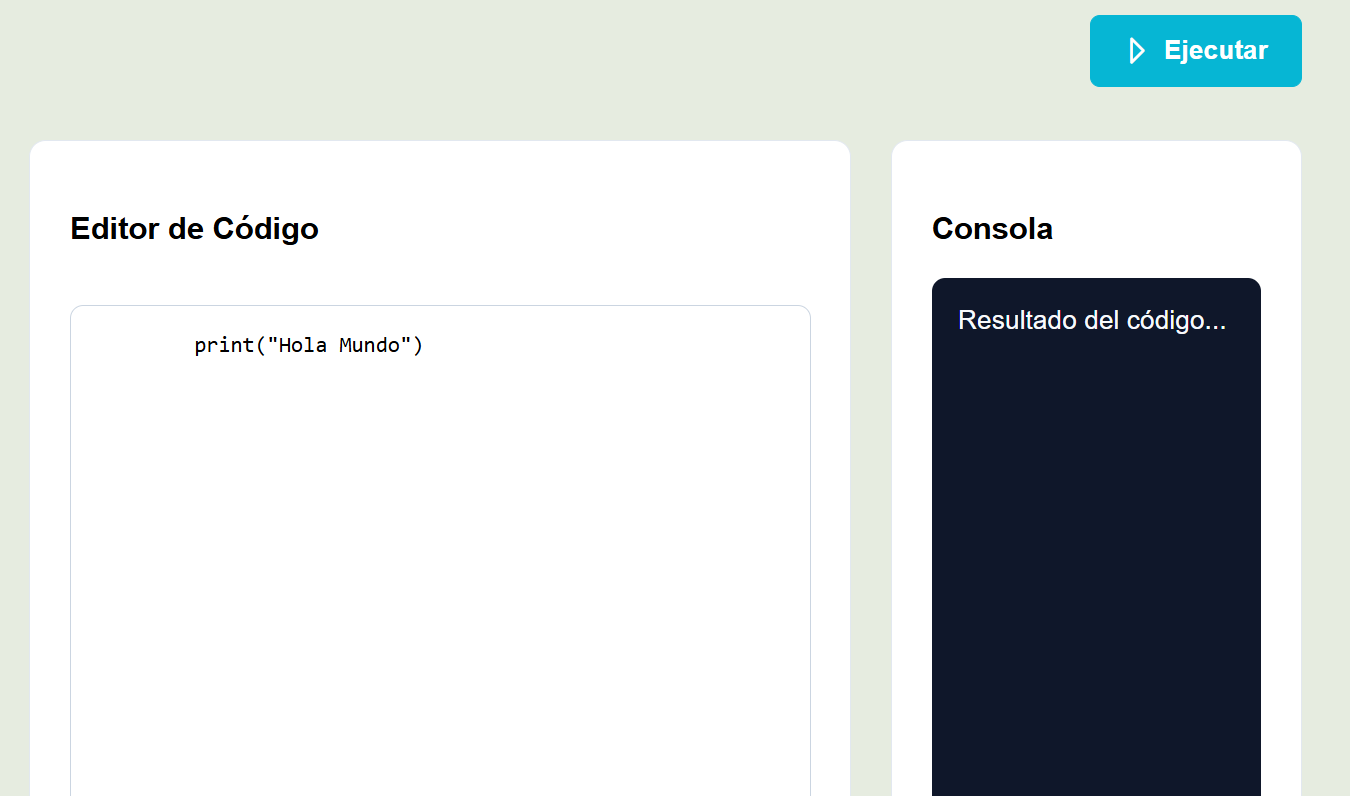
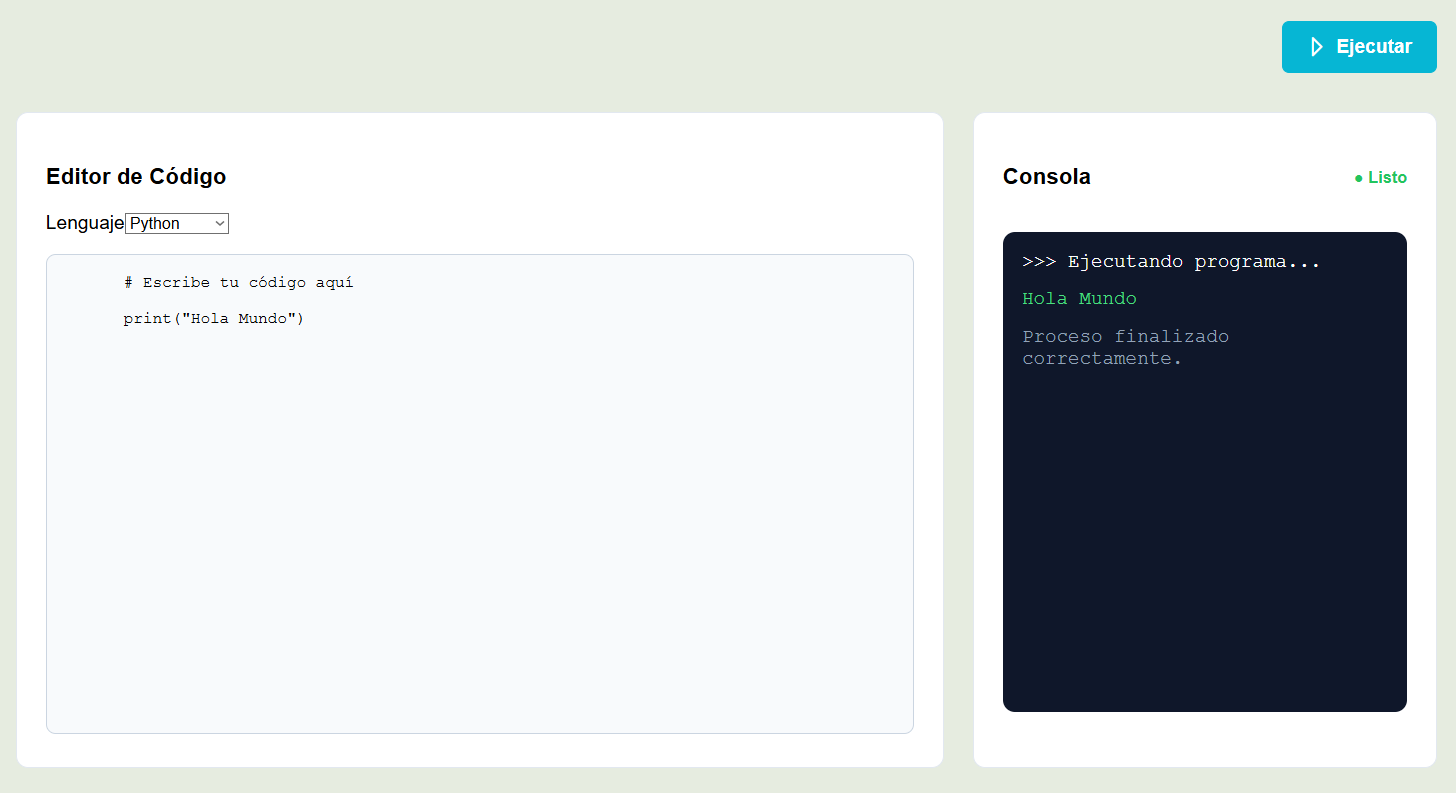
Completo

Changed region(s): [[0.0, 0.0, 0.9956, 1.0], [0.0933, 0.3934, 0.3111, 0.454], [0.0933, 0.3329, 0.2489, 0.3632]]

diff --git a/src/app/modules/platform/layout/layout-content/layout-content.component.html b/src/app/modules/platform/layout/layout-content/layout-content.component.html
@@ -23,9 +23,6 @@
     <div class="topbar-content">
       <p-tag value="Plataforma Educativa" severity="success"></p-tag>
       <div class="topbar-content">
-        <div>
-          <h3>Hola, Usuario 👋</h3>
-        </div>
         <div class="topbar-button">
           <p-avatar
             label="A"